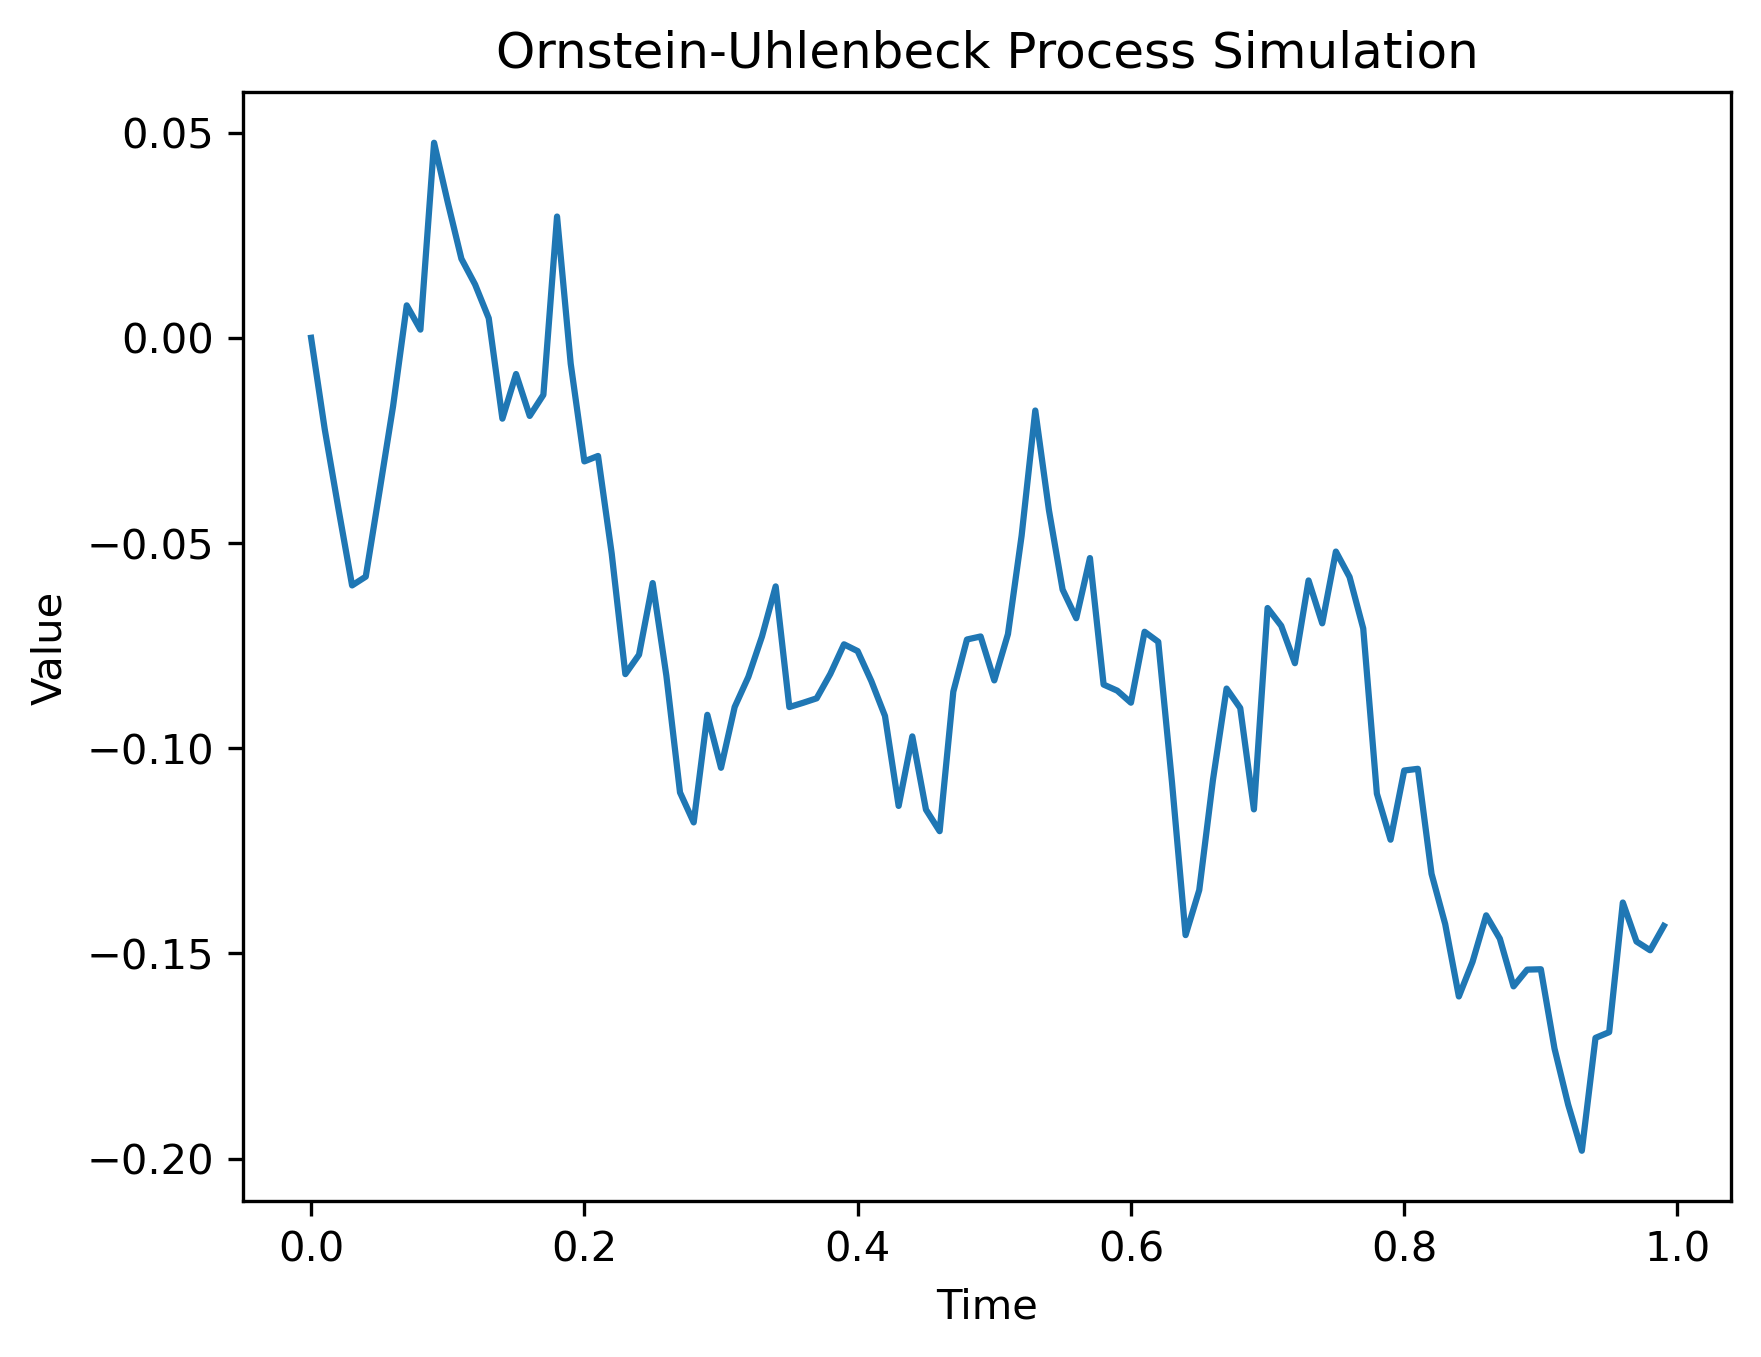
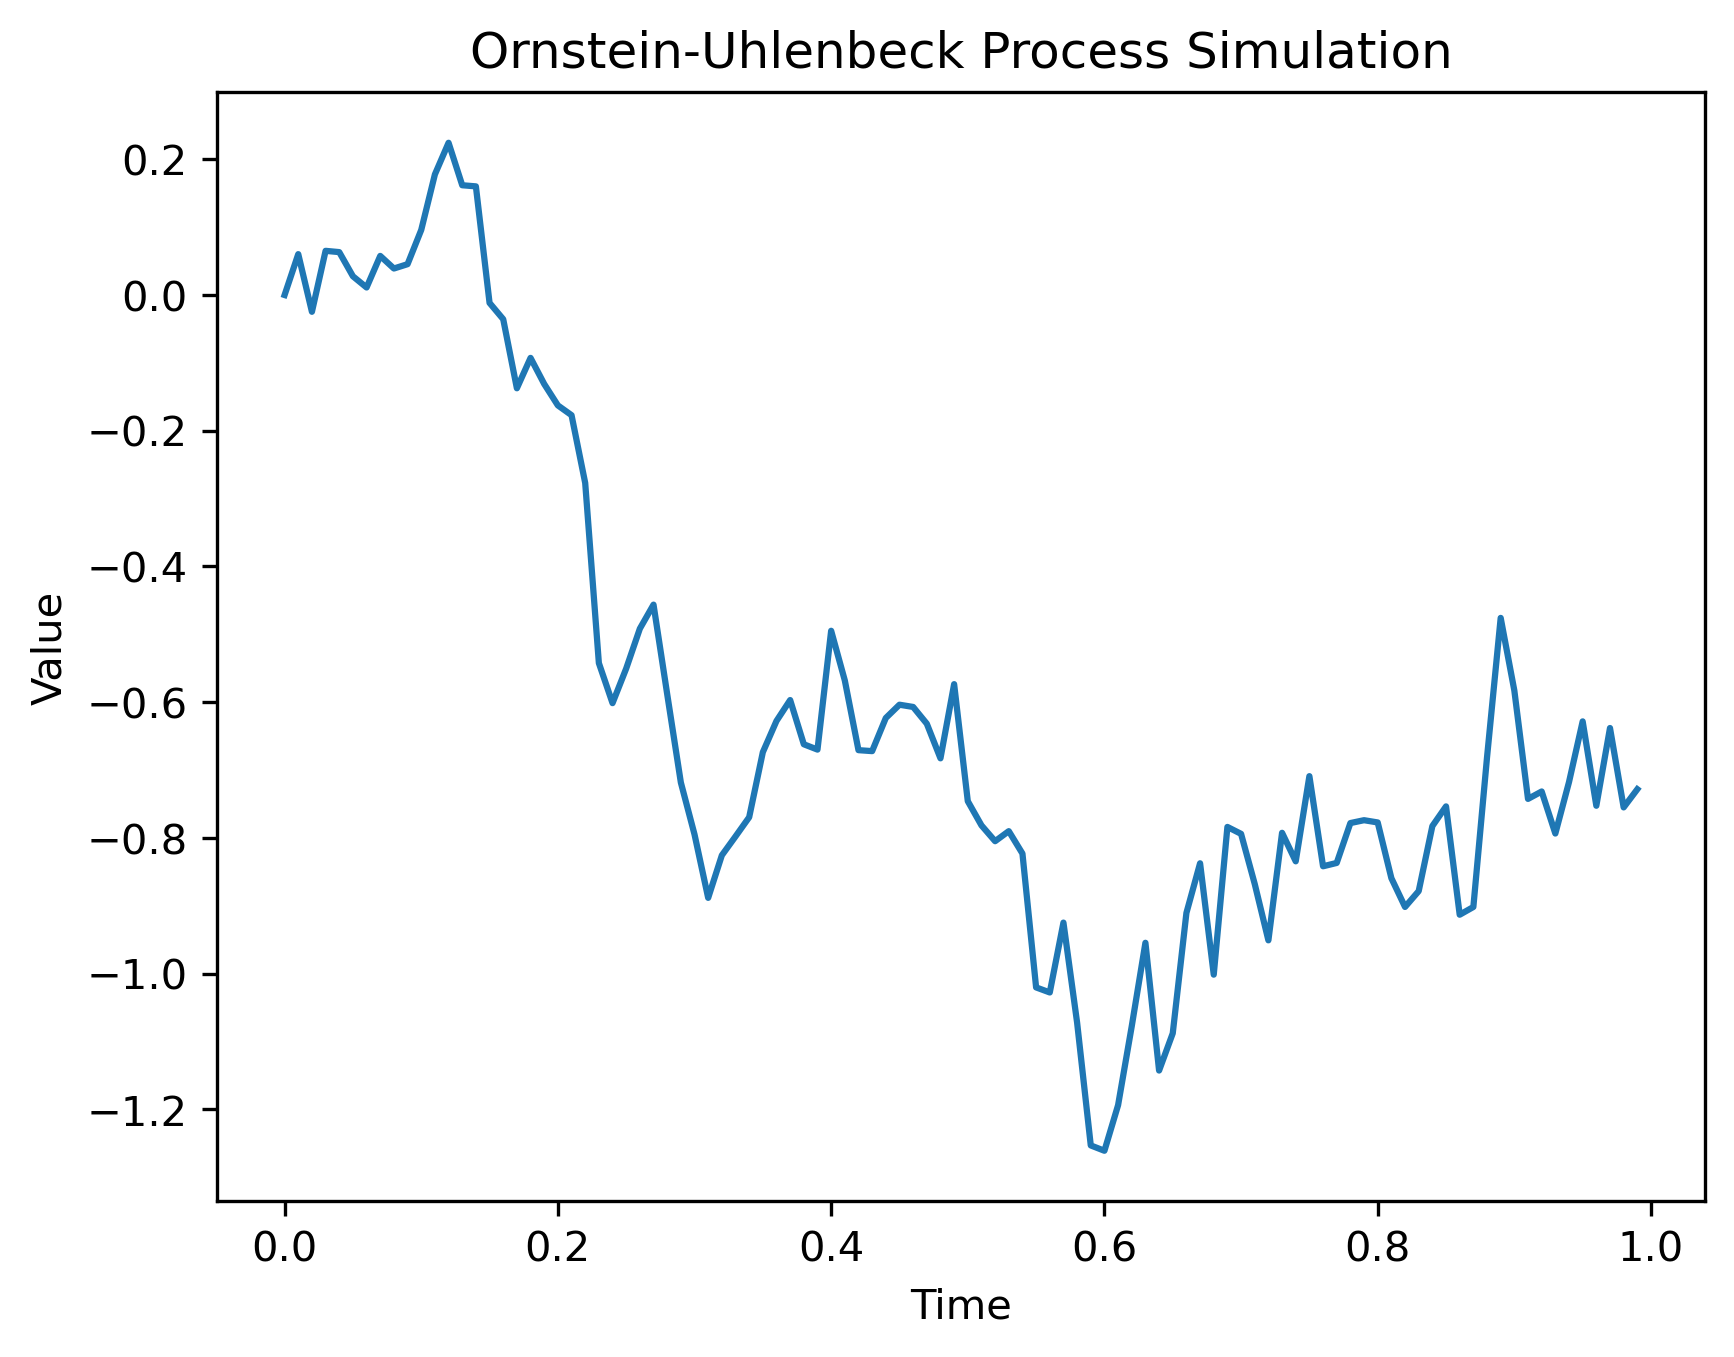
noise check

diff --git a/Code/Predictive_E-prop/gemini5th/ex.py b/Code/Predictive_E-prop/gemini5th/ex.py
@@ -2,8 +2,6 @@ import numpy as np
 import matplotlib.pyplot as plt
 import datetime
 
-# 時間窓の可能性
-
 # ==========================================
 # ニューロンモデル
 # ==========================================
@@ -116,11 +114,13 @@ class EPropOptimizer:
         
         self.grad_w_rec = np.zeros((n_neurons, n_neurons))
         self.grad_w_out = np.zeros((n_outputs, n_neurons))
+        
+        # t_delay区間内でのみ累積する変数
         self.grad_w_rec_accumulated = np.zeros((n_neurons, n_neurons))
         self.grad_w_out_accumulated = np.zeros((n_outputs, n_neurons))
-        
         self.spike_buffer = np.zeros(n_neurons)
         self.e_trace_sum = np.zeros((n_neurons, n_neurons))
+        
         self.step_counter = 0
 
     def reset_traces(self):
@@ -152,7 +152,7 @@ class EPropOptimizer:
             # Eq. 10: e_ij^t = psi_i^t * (z_bar_j^{t-1} - beta * eps_b,ij^t)
             self.e_trace[offset:offset+n_g, :] = psi_curr * (z_bar_prev - beta * self.eps_b[offset:offset+n_g, :])
         
-        # 毎ステップの勾配を蓄積
+        # 毎ステップの勾配を t_delay 区間内でのみ蓄積
         # Eq. 3: Delta W_ij^rec = eta * sum_t ( L_i^t * e_ij^t )
         self.grad_w_rec_accumulated += L_t[:, None] * self.e_trace
         # Eq. 11: Delta W_ij^out = eta * sum_t ( (y_i^t - x_i^t) * z_bar_j^t )
@@ -175,24 +175,19 @@ class EPropOptimizer:
             reg_signal = (self.lambda_reg / self.t_delay) * (f_bar - self.f_star)
             self.grad_w_rec += reg_signal[:, None] * self.e_trace_sum
             
-            # バッファクリア
+            # 該当のバッファを t_delay ごとに完全にリセット（全時間ステップでの和とならないようにする）
             self.spike_buffer.fill(0)
             self.e_trace_sum.fill(0)
             self.grad_w_rec_accumulated.fill(0)
             self.grad_w_out_accumulated.fill(0)
             self.step_counter = 0
+            
             return True
         return False
 
     def apply_weight_update(self, w_rec, w_out):
-        # grad_rec_clipped = np.clip(self.grad_w_rec, -10.0, 10.0)
-        # grad_out_clipped = np.clip(self.grad_w_out, -10.0, 10.0)
-        
         # Eq. S2 & S3: 重み減衰 (Weight regularization: lambda_w * ||W||^2)
         # W -= eta * grad + eta * 2 * lambda_w * W
-        # w_rec -= self.eta * grad_rec_clipped + self.eta * (2 * self.lambda_w) * w_rec
-        # w_out -= self.eta * grad_out_clipped + self.eta * (2 * self.lambda_w) * w_out
-
         w_rec -= self.eta * self.grad_w_rec + self.eta * (2 * self.lambda_w) * w_rec
         w_out -= self.eta * self.grad_w_out + self.eta * (2 * self.lambda_w) * w_out
         
@@ -231,9 +226,8 @@ class PredictiveEPropNet:
         
         self.I_bias = 0.02
         self.tau_s = 250.0
-        self.sigma_s = 0.02
-        self.mu_s = 0.0
-        self.s = np.zeros(self.n_neurons) # 各ニューロンに独立したノイズを流す
+        self.sigma_s = 1.0
+        self.s = np.zeros(self.n_neurons)
         
         self.optimizer = EPropOptimizer(self.n_neurons, n_inputs, n_outputs, eta=0.0004) 
 
@@ -245,9 +239,7 @@ class PredictiveEPropNet:
 
     def generate_ou_noise(self, dt=1.0):
         # Section 2.1: Ornstein-Uhlenbeck noise s
-        # self.s += - (self.s / self.tau_s) * dt + self.sigma_s * np.sqrt(2 / self.tau_s) * np.random.randn(self.n_neurons)
-        decay = np.exp(-dt / self.tau_s)
-        self.s = self.mu_s + (self.s - self.mu_s) * decay + self.sigma_s * np.sqrt(1.0 - decay ** 2) * np.random.randn(self.n_neurons)
+        self.s += - (self.s / self.tau_s) * dt + self.sigma_s * np.sqrt(2 / self.tau_s) * np.random.randn(self.n_neurons)
         return self.s
 
     def run_full_epoch(self, target_signal, dt=1.0):
@@ -273,7 +265,6 @@ class PredictiveEPropNet:
 
             x_t = target_signal[t]
             
-            # 【修正】z_bar ではなく z_bar_bar (二重指数フィルタ後) を用いて出力を計算
             # Section 2.1: y_i^t = sum_k W_ik^out * z_bar_bar_i^t
             all_z_bar_bar = np.concatenate([self.lif.z_bar_bar, self.alif.z_bar_bar])
             all_z_bar = np.concatenate([self.lif.z_bar, self.alif.z_bar])
@@ -285,7 +276,6 @@ class PredictiveEPropNet:
             d_t = y_t - x_t
             s_t = self.generate_ou_noise(dt)
             
-            # 【修正】i_rec の計算に z_bar_bar を使用
             # Eq. 1: 入力電流統合 (sum W_ij^rec * z_bar_bar_j^t)
             i_rec = self.w_rec @ all_z_bar_bar
             i_in = self.w_in @ d_t

diff --git a/Code/Predictive_E-prop/sineWaveTest/gemini4th/noisecheck.py b/Code/Predictive_E-prop/sineWaveTest/gemini4th/noisecheck.py
@@ -1,0 +1,76 @@
+import numpy as np
+import datetime
+import matplotlib
+# 画面出力のないCUI/CLI環境でエラーを防ぐためのバックエンド設定
+matplotlib.use('Agg') 
+import matplotlib.pyplot as plt
+
+class OUNoiseGenerator:
+    """
+    PredictiveEPropNetから抽出したOUノイズジェネレータ
+    """
+    def __init__(self, n_neurons, tau_s=250.0, sigma_s=0.02, mu_s=0.0):
+        self.n_neurons = n_neurons
+        self.tau_s = tau_s
+        self.sigma_s = sigma_s
+        self.mu_s = mu_s
+        self.s = np.zeros(self.n_neurons)
+
+    def generate_ou_noise(self, dt=1.0):
+        # 元コードの数式に忠実な実装
+        decay = np.exp(-dt / self.tau_s)
+        self.s = self.mu_s + (self.s - self.mu_s) * decay + \
+                 self.sigma_s * np.sqrt(1.0 - decay ** 2) * np.random.randn(self.n_neurons)
+        return self.s.copy()
+
+def main():
+    # シミュレーションパラメータ
+    n_neurons = 1        # プロットを見やすくするため3サンプル
+    timesteps = 20000     # シミュレーションのステップ数
+    dt = 1.0             # タイムステップ (ms)
+
+    # ジェネレータのインスタンス化
+    generator = OUNoiseGenerator(
+        n_neurons=n_neurons, 
+        tau_s=250.0, 
+        sigma_s=1.0, 
+        mu_s=0.0
+    )
+
+    # 結果を格納する配列
+    noise_history = np.zeros((timesteps, n_neurons))
+
+    # ノイズ生成ループ
+    for t in range(timesteps):
+        noise_history[t] = generator.generate_ou_noise(dt=dt)
+
+    # 結果のプロット
+    plt.figure(figsize=(12, 6))
+    
+    # 各ニューロンのノイズをプロット
+    for i in range(n_neurons):
+        plt.plot(noise_history[:, i], label=f'Neuron {i+1}', alpha=0.8, linewidth=1.5)
+
+    # 見栄えの調整
+    plt.axhline(0, color='black', linestyle='--', linewidth=1, alpha=0.5)
+    
+    # 警告を回避するために rf (raw f-string) を使用
+    plt.title(rf'Ornstein-Uhlenbeck Noise ($\mu={generator.mu_s}$, $\sigma={generator.sigma_s}$, $\tau={generator.tau_s}$)', fontsize=14)
+    plt.xlabel('Time steps (t)', fontsize=12)
+    plt.ylabel('Noise Amplitude (s)', fontsize=12)
+    plt.legend(loc='upper right')
+    plt.grid(True, alpha=0.3)
+    plt.tight_layout()
+    
+    # 実行日時を取得してユニークなファイル名を生成 (YYYYMMDD_HHMMSS 形式)
+    current_time = datetime.datetime.now().strftime('%Y%m%d_%H%M%S')
+    output_filename = f'ou_output/ou_noise_plot_{current_time}.png'
+    
+    # 画像ファイルとして保存
+    plt.savefig(output_filename, dpi=150)
+    plt.close() # メモリ解放
+    
+    print(f"シミュレーション完了: 結果を '{output_filename}' として保存しました。")
+
+if __name__ == "__main__":
+    main()

diff --git a/Code/Predictive_E-prop/sineWaveTest/gemini4th/ounoise_comparison.py b/Code/Predictive_E-prop/sineWaveTest/gemini4th/ounoise_comparison.py
@@ -1,0 +1,75 @@
+import numpy as np
+import datetime
+import matplotlib
+matplotlib.use('Agg')
+import matplotlib.pyplot as plt
+
+# ---------------------------------------------------------
+# 1. パラメータの設定 (PredictiveEPropNet側の設定を基準とする)
+# ---------------------------------------------------------
+dt = 1.0
+T = 20000.0
+timesteps = int(T / dt)
+
+# 【厳密解法 (Exact) のパラメータ】
+mu_s = 0.0
+tau_s = 250.0
+sigma_s = 1.0
+
+# 【オイラー・マリュマ法 (Euler) のパラメータに変換】
+mu = mu_s
+theta = 1.0 / tau_s
+sigma = sigma_s * np.sqrt(2.0 / tau_s)
+
+# ---------------------------------------------------------
+# 2. 共通の乱数（標準正規分布）を生成
+# ---------------------------------------------------------
+# 全く同じ波形を作るため、シードを固定して共通の乱数配列を準備
+np.random.seed(42)
+Z = np.random.randn(timesteps)
+
+# ---------------------------------------------------------
+# 3. シミュレーション実行
+# ---------------------------------------------------------
+t_array = np.arange(0, T, dt)
+X_exact = np.zeros(timesteps)
+X_euler = np.zeros(timesteps)
+
+# 厳密解法用の減衰率
+decay = np.exp(-dt / tau_s)
+
+for i in range(1, timesteps):
+    # ① 厳密解法 (PredictiveEPropNetの実装)
+    X_exact[i] = mu_s + (X_exact[i-1] - mu_s) * decay + \
+                 sigma_s * np.sqrt(1.0 - decay**2) * Z[i]
+                 
+    # ② オイラー・マリュマ法 (今回の実装)
+    # dW = 共通乱数 Z[i] * sqrt(dt)
+    dW = Z[i] * np.sqrt(dt)
+    X_euler[i] = X_euler[i-1] + theta * (mu - X_euler[i-1]) * dt + sigma * dW
+
+# ---------------------------------------------------------
+# 4. 結果のプロット
+# ---------------------------------------------------------
+plt.figure(figsize=(12, 6))
+
+# 線を重ねて描画（Euler法を少し太く薄く描画し、Exact法を細く濃く描画）
+plt.plot(t_array, X_euler, label='Euler-Maruyama Method (Approximate)', color='blue', alpha=0.5, linewidth=4)
+plt.plot(t_array, X_exact, label='Exact Method (PredictiveEPropNet)', color='red', alpha=0.8, linewidth=1.5)
+
+plt.axhline(mu_s, color='black', linestyle='--', linewidth=1, alpha=0.5)
+plt.title('Comparison of OU Process Implementations (Same Conditions)', fontsize=14)
+plt.xlabel('Time', fontsize=12)
+plt.ylabel('Value', fontsize=12)
+plt.legend(loc='upper right')
+plt.grid(True, alpha=0.3)
+plt.tight_layout()
+
+# ユニークなファイル名で保存
+current_time = datetime.datetime.now().strftime('%Y%m%d_%H%M%S')
+output_filename = f"ou_output/ou_comparison_{current_time}.png"
+
+plt.savefig(output_filename, dpi=150)
+plt.close()
+
+print(f"比較画像を '{output_filename}' として保存しました。")

diff --git a/Code/Predictive_E-prop/sineWaveTest/gemini4th/ounoise.py b/Code/Predictive_E-prop/sineWaveTest/gemini4th/ounoise.py
@@ -4,7 +4,7 @@ import matplotlib.pyplot as plt
 # オルナシュテイン-ウーレンベック過程のパラメータ
 theta = 0.1
 mu = 0.5
-sigma = 0.2
+sigma = 1.0
 
 # 数値解法（オイラー・マリュマ法）
 def ornstein_uhlenbeck_simulation(dt, T):
